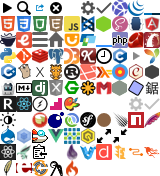
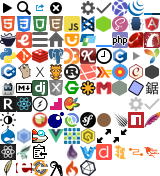
Finish InfluxData scraper

Changed region(s): [[0.5, 0.9091, 0.625, 1.0]]

diff --git a/assets/stylesheets/global/_icons.scss b/assets/stylesheets/global/_icons.scss
@@ -128,3 +128,4 @@
 ._icon-chef:before          { background-position: -2rem -10rem; }
 ._icon-ramda:before         { background-position: -3rem -10rem; @extend %darkIconFix !optional; }
 ._icon-codeigniter:before   { background-position: -4rem -10rem; @extend %darkIconFix !optional; }
+._icon-influxdata:before    { background-position: -5rem -10rem; @extend %darkIconFix !optional; }

diff --git a/assets/stylesheets/pages/_base.scss b/assets/stylesheets/pages/_base.scss
@@ -18,6 +18,7 @@
 
 ._cordova,
 ._grunt,
+._influxdata,
 ._less,
 ._lodash,
 ._marionette,

diff --git a/lib/docs/scrapers/influxdata.rb b/lib/docs/scrapers/influxdata.rb
@@ -1,0 +1,32 @@
+module Docs
+  class Influxdata < UrlScraper
+    self.name = 'InfluxData'
+    self.type = 'influxdata'
+    self.release = '0.10'
+    self.base_url = 'https://docs.influxdata.com/'
+
+    html_filters.push 'influxdata/entries', 'influxdata/clean_html', 'title'
+
+    options[:trailing_slash] = true
+
+    options[:root_title] = 'InfluxData Documentation'
+    options[:title] = false
+
+    options[:only_patterns] = [/(telegraf|influxdb|chronograf|kapacitor)\/v#{release}/]
+
+    options[:skip] = [
+      "influxdb/v#{release}/sample_data/data_download/",
+      "influxdb/v#{release}/tools/grafana/",
+      "influxdb/v#{release}/about/"
+    ]
+
+    options[:replace_paths] = {
+      "influxdb/v#{release}/guides/clustering/" => 'influxdb/v0.10/clustering/'
+    }
+
+    options[:attribution] = <<-HTML
+      &copy; 2015 InfluxData, Inc.<br>
+      Licensed under the MIT license.
+    HTML
+  end
+end

diff --git a/lib/docs/filters/influxdata/entries.rb b/lib/docs/filters/influxdata/entries.rb
@@ -1,0 +1,30 @@
+module Docs
+  class Influxdata
+    class EntriesFilter < Docs::EntriesFilter
+      def get_name
+        at_css('#page-title h1').content
+      end
+
+      def get_type
+        product = at_css('.product-switcher--current').content.strip
+        return product if %w(Chronograf Telegraf).include?(product)
+
+        node = at_css('#product-sidebar a[href="index"]')
+        node = node.parent.previous_element unless node.parent['class'] == 'product-sidebar--section-title'
+
+        type = node.content.strip
+        type.remove! ' Reference'
+
+        if type.in?(%w(Getting\ Started Introduction Guides))
+          product
+        else
+          "#{product}: #{type}"
+        end
+      end
+
+      def include_default_entry?
+        !subpath.end_with?("v#{Influxdata.release}/")
+      end
+    end
+  end
+end

diff --git a/lib/docs/filters/influxdata/clean_html.rb b/lib/docs/filters/influxdata/clean_html.rb
@@ -1,0 +1,27 @@
+module Docs
+  class Influxdata
+    class CleanHtmlFilter < Filter
+      def call
+        if root_page?
+          doc.inner_html = ' '
+          return doc
+        end
+
+        doc = @doc.at_css('#page-content')
+
+        css('.page--contribute', 'hr').remove
+
+        css('.page--body', '.page--title', 'font').each do |node|
+          node.before(node.children).remove
+        end
+
+        css('pre > code').each do |node|
+          node.parent['class'] = node['class']
+          node.before(node.children).remove
+        end
+
+        doc
+      end
+    end
+  end
+end
